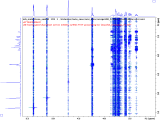
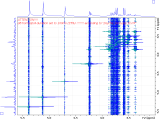
update demo matlab file

diff --git a/very_short_demo.m b/very_short_demo.m
@@ -1,5 +1,5 @@
 %% setting and reading spectrum 
-file_id=fopen('/Volumes/lacie_case/nmr_data/nmrge500_3/data/winssinger/data/nmr/nmr/DC15-40/10/pdata/1/1r');
+file_id=fopen('./dj-caryophyllene_oxide/12/pdata/4/1r');
 spectrum=fread(file_id,'int');
 %% plotting spectrum for test and reference
 figure(1);clf;plot(spectrum)
@@ -16,3 +16,6 @@ Sminus=sort(Sminus,'descend');
 figure(2);clf;
 loglog(Splus);hold on
 %loglog(Sminus)
+Smax=Splus(1,1);
+SigmaN=Splus(round(size(Splus,1)/2),1)/0.6744897495;
+title(['Smax=' num2str(Smax) ', SigmaN=' num2str(SigmaN), ', SINO=' num2str(Smax/(2*SigmaN))])
